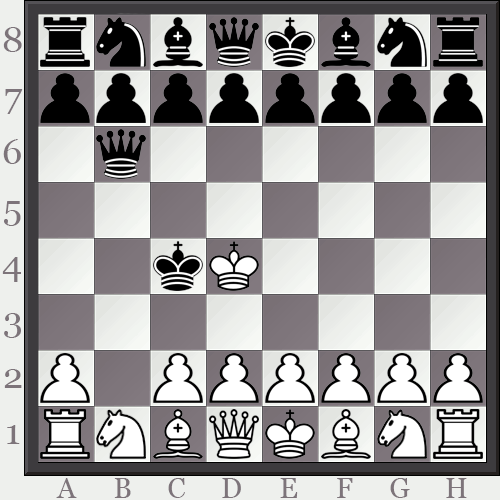
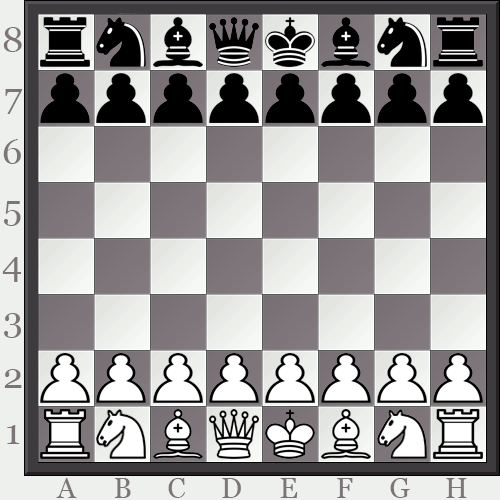
Chess and Discord integration
MainIO (weird name, will change later) links the bot with the game

other minor changes

Changed region(s): [[0.3, 0.48, 0.54, 0.6], [0.18, 0.24, 0.3, 0.36], [0.18, 0.69, 0.3, 0.81]]

diff --git a/MainIO.py b/MainIO.py
@@ -1,0 +1,112 @@
+import discord
+import Main as chessGame
+
+async def loadGame(ctx, bot, players):
+	p1,p2 = players #p1 is white, p2 is black
+	emojis = ('🤍', '🖤')
+	gs = chessGame.Engine.GameState()
+	chessGame.loadSprites()
+	didIllegalMove = [False, ''] #[bool, str]
+
+
+	boardMessages = [] #needed to delete the last edited board and avoid chat clutter
+
+	chessGame.drawGameState(gs.board)	#Don't really like this mess, will clean later
+	validMoves = gs.getAllPossibleMoves()
+	with open(chessGame.output, "rb") as fh:
+		f = discord.File(fh, filename=chessGame.output)
+		boardMessages.append(await ctx.send(file=f))
+
+	while True: #gameloop
+		p1turn = gs.whiteMoves
+		#generate board and moves
+		if not didIllegalMove[0] or gs.turnCount == 0: #no need to regenerate if move did not go trhu
+			chessGame.drawGameState(gs.board)
+			validMoves = gs.getAllPossibleMoves()
+		
+		if gs.turnCount != 0: #Don't resend the first image
+			with open(chessGame.output, "rb") as fh:
+				f = discord.File(fh, filename=chessGame.output)
+				boardMessages.append(await ctx.send(file=f))
+				await boardMessages[0].delete()
+				del boardMessages[0]
+		
+		
+	#MACRO TASK: ask for a move or command
+		#1. make an embed with the request
+		embed = discord.Embed(
+			title= f'Fai una mossa {str(players[not gs.whiteMoves])[:-5]}!',
+			description = 'Scrivi in chat posizione iniziale e posizione finale del pedone\ne.g.: A2A4\n\nscrivi "undo" per annullare l\'ultima mossa\nscrivi "stop" per fermare la partita',
+			color = 0xf2f2f2 if gs.whiteMoves else 0x030303
+		)
+		
+		#2. if previous move was illegal modify the embed with the info
+		if didIllegalMove[0]:
+			embed.title = 'Mossa non valida'
+			embed.description = didIllegalMove[1]
+			embed.color = 0xdc143c
+
+			didIllegalMove = [False, '']
+
+		embed.set_footer(text=f'È il turno di {players[not gs.whiteMoves]} {emojis[not gs.whiteMoves]}')#I'm too good at this shit #godcomplex
+		
+		#3. send the embed and wait for user input
+		inputAsk = await ctx.send(embed=embed)
+		async def check(m):
+			if not (m.author in players):
+				await m.delete()
+				return False
+			if p1turn and m.author != p1:
+				await m.delete()
+				return False
+			return m.channel == ctx.channel and m.author in players
+
+		userMessage = await bot.wait_for('message', check=check)
+		#4. delete the embed to avoid clutter
+		await inputAsk.delete()
+		chessGame.mPrint("USER", f'{userMessage.author}, comando: {userMessage.content}')
+		
+	#MACRO TASK: parse user input
+		#1. create distinction between input (str) and message (discord.Message)
+		userMove = userMessage.content
+
+		#2. Detect if user wants to perform a command
+		if(userMove == "undo"): #ctrl-z
+			gs.undoMove()
+			
+		if(userMove == "stop"):
+			break
+		
+		#3. Parse user input
+		userMove = userMove.replace('/', '').replace(',','').replace(' ','').lower()
+		chessGame.mPrint('DEBUG', f'userMove: {userMove}')
+
+		#4. Check if user input has valid values
+		if (userMove[0] not in 'abcdefgh' or userMove[2] not in 'abcdefgh' or 
+			userMove[1] not in '12345678' or userMove[3] not in '12345678'):
+			didIllegalMove = [True, f'Input invalido formato: A1A1, riprova\nHai inserito: {userMove}\n']
+			await userMessage.delete()
+			continue
+		
+	#MACRO TASK: move the pieces
+		#1. create a structure to hold the data 	
+		userMove = [#omg this is so confusing wth #impostorsyndrome
+			#                       rank (1->8)                              file (A->H)
+			(chessGame.Engine.Move.ranksToRows[userMove[1]], chessGame.Engine.Move.filesToCols[userMove[0]]),
+			(chessGame.Engine.Move.ranksToRows[userMove[3]], chessGame.Engine.Move.filesToCols[userMove[2]])
+		]
+		
+		#2. send the move to the engine for elaboration
+		move = chessGame.Engine.Move(userMove[0], userMove[1], gs.board)
+
+		#3. detect if move is valid
+		if move in validMoves:
+			chessGame.mPrint("GAME", f"Valid move: {move.getChessNotation()}")
+			gs.makeMove(move)
+		else:
+			#3F. if move is invalid notify the user and ask again for input
+			didIllegalMove = [True, f'Illegal move {move.getChessNotation()}']
+			await userMessage.delete()
+			chessGame.mPrint("GAMEErr", "Invalid move.")
+			chessGame.mPrint("GAME", f"your move: {move.moveID} ({move.getChessNotation()})")
+		

diff --git a/bot.py b/bot.py
@@ -1,15 +1,15 @@
-from dis import disco
+from ast import arg
+import asyncio
 import os
 import discord
 from discord.ext import commands
 from dotenv import load_dotenv
 import random
 from datetime import datetime
-from discord_slash.utils import manage_components
 # from discord_slash.model import ButtonStyle
 # from discord_slash import SlashCommand
-
-import Main
+import threading
+import MainIO
 
 load_dotenv()#Sensitive data is stored in a ".env" file
 TOKEN = os.getenv('DISCORD_TOKEN')[1:-1]
@@ -30,6 +30,8 @@ bot.remove_command("help")
 
 settingsFile = "settings.cfg"
 settings = {"response":35}
+
+
 
 def log(msg):
     """
@@ -154,7 +156,6 @@ async def on_member_join(member):
     await channel.send(f'A {member.name} piace il culo.')   
     print("join detected")
 
-
 @bot.command(name='resp')
 async def perc(ctx, arg=''):  ## BOT COMMAND
     if(arg == ''):
@@ -195,6 +196,63 @@ async def ping(ctx):
     pingms = round(bot.latency*1000)
     await ctx.send(f'Pong! {pingms}ms')
     log(f'[INFO]: ping detected: {pingms} ms')
+
+@bot.command(name='user')
+async def user(ctx):
+    await ctx.send(f'User: {bot.user}')
+
+@bot.command(name='game', pass_context=True)
+async def thumb(ctx):
+    try:
+        await ctx.message.delete()
+    except:
+        pass
+    #delete messages: ctx.channel.purge(limit=int(n))
+    embed = discord.Embed(title = 'Cerco giocatori, usa una reazione per unirti ad un team (max 1 per squadra)', color = 0x0a7ace)
+    fetchMsg = await ctx.send(embed=embed)
+    reactions = ('🤍', '🖤')
+    r1, r2 = reactions
+    await fetchMsg.add_reaction(r1)
+    await fetchMsg.add_reaction(r2)
+
+    def check1(reaction, user):
+        print(user)
+        return str(reaction.emoji) in reactions and user != bot.user
+    def check2(reaction, user):
+        print(user)
+        return str(reaction.emoji) in reactions 
+
+    try:
+        r1, player1 = await bot.wait_for('reaction_add', timeout=60.0, check=check1)
+        r2, player2 = await bot.wait_for('reaction_add', timeout=60.0, check=check2)
+
+    except asyncio.TimeoutError:
+        embed = discord.Embed(
+            title = 'Non ci sono abbastanza giocatori.',
+            colour = 0xdc143c
+        )
+        await ctx.send(embed=embed)
+        await fetchMsg.delete()
+    else:
+        embed = discord.Embed(
+            title = f'Giocatori trovati\n🤍 {player1} -VS- {player2} 🖤',
+            colour = 0x27E039
+        )
+        await ctx.send(embed=embed)
+        await fetchMsg.delete()
+
+    #game main
+    await MainIO.loadGame(ctx, bot, (player1, player2))
+
+
+    # async def chessGame(p1, p2):
+    #     reaction1, player1 = await bot.wait_for('reaction_add', timeout=60.0, check=check1)
+    #     print(f"game with {p1} vs {p2}")
+    #     pass
+
+    # game = threading.Thread(target=chessGame, args = (player1,player2))
+    # game.start()
+
 
 """
 @slash.slash(name="test", description="This is just a test command, nothing more.", guild_ids=guild_ids)

diff --git a/Engine.py b/Engine.py
@@ -11,8 +11,8 @@ class GameState():
 			["BT", "BC", "BA", "BQ", "BK", "BA", "BC", "BT"], #A Bianco 
 			["BP", "BP", "BP", "BP", "BP", "BP", "BP", "BP"], #B
 			["--", "--", "--", "--", "--", "--", "--", "--"], #C
-			["--", "--", "--", "--", "--", "--", "--", "BK"], #D
-			["NK", "--", "--", "--", "NQ", "--", "--", "--"], #E
+			["--", "--", "--", "--", "--", "--", "--", "--"], #D
+			["--", "--", "--", "--", "--", "--", "--", "--"], #E
 			["--", "--", "--", "--", "--", "--", "--", "--"], #F
 			["NP", "NP", "NP", "NP", "NP", "NP", "NP", "NP"], #G
 			["NT", "NC", "NA", "NQ", "NK", "NA", "NC", "NT"], #H Nero 
@@ -27,6 +27,7 @@ class GameState():
 			'Q': self.getQMoves,
 			'K': self.getKMoves
 		}
+		self.turnCount = 0
 
 	def makeMove(self, move):
 		"""
@@ -38,6 +39,7 @@ class GameState():
 		self.board[move.startRow][move.startCol] = "--"
 		self.board[move.endRow][move.endCol] = move.pieceMoved
 		self.moveLog.append(move)
+		self.turnCount += 1
 		self.whiteMoves = not self.whiteMoves
 
 	def undoMove(self):
@@ -48,6 +50,7 @@ class GameState():
 			lastMove = self.moveLog.pop()
 			self.board[lastMove.startRow][lastMove.startCol] = lastMove.pieceMoved
 			self.board[lastMove.endRow][lastMove.endCol] = lastMove.pieceCaptured
+			self.turnCount -= 1
 			self.whiteMoves = not self.whiteMoves
 
 	def getValidMoves(self):
@@ -272,6 +275,9 @@ class Move():
 				return self.moveID == other.moveID
 			return False
 
+	def getAlgebraicNotation(self) -> str:
+		pass #TODO implement (use emojis maybe)
+
 	def getChessNotation(self) -> str:
 		"""Only use of log/printing purposes """
 		return self.getRankFile(self.startRow, self.startCol) + self.getRankFile(self.endRow, self.endCol)
@@ -285,7 +291,7 @@ class Move():
 		return self.colsToFiles[c] + self.rowsToRanks[r]
 
 """
-♟ Chess Pawn
+♟♟ Chess Pawn
 
 ♛ Black Chess Queen
 ♝ Black Chess Bishop

diff --git a/Main.py b/Main.py
@@ -63,16 +63,18 @@ def mPrint(prefix, value):
 
 	print(f'{style}{col}[{prefix}] {value}{Fore.RESET}')
 
-def loadSprites() -> None:
+def loadSprites() -> dict:
 	"""
 		Inizializza la dict sprites con le immagini delle pedine
 	"""
 	pieces = ["NT", "NA", "NC", "NQ", "NK", "NP", "BT", "BA", "BC", "BQ", "BK", "BP"]
 	for piece in pieces:
 		sprites[piece] = Image.open(f"{spritesFolder}{piece}.png").convert("RGBA")
+	return sprites
 	#possiamo accedere ad uno sprite così e.g.: sprites["BP"]
 
 def drawGameState(boardGS) -> Image:
+	mPrint("DEBUG", "Generating board")
 	"""Responsible for the graphics of the game"""
 	#Drawing the pieces on the board
 	boardImg = Image.open(f"{board_filename}").convert("RGBA")
@@ -82,7 +84,9 @@ def drawGameState(boardGS) -> Image:
 			if (piece != "--"):
 				boardImg.paste(sprites[piece], (posx[x], posy[y]), sprites[piece])
 	boardImg.save(output)
+	mPrint("DEBUG", "Board Generated")
 	return boardImg
+
 
 
 def main():
@@ -93,14 +97,12 @@ def main():
 	#ask for move
 	while True:
 		#moveMade = False
-		mPrint("DEBUG", "Generating board")
+		
 		drawGameState(gs.board)
-		mPrint("DEBUG", "Board Generated")
 		
 		#if moveMade:
-		mPrint("DEBUG", "Generating possible moves")
 		validMoves = gs.getAllPossibleMoves()
-		mPrint('DEBUG', 'Moves generated.')
+		
 		
 
 		userMove = input("Move (A1A1): ").replace('/', '').replace(',','').replace(' ','').lower()
